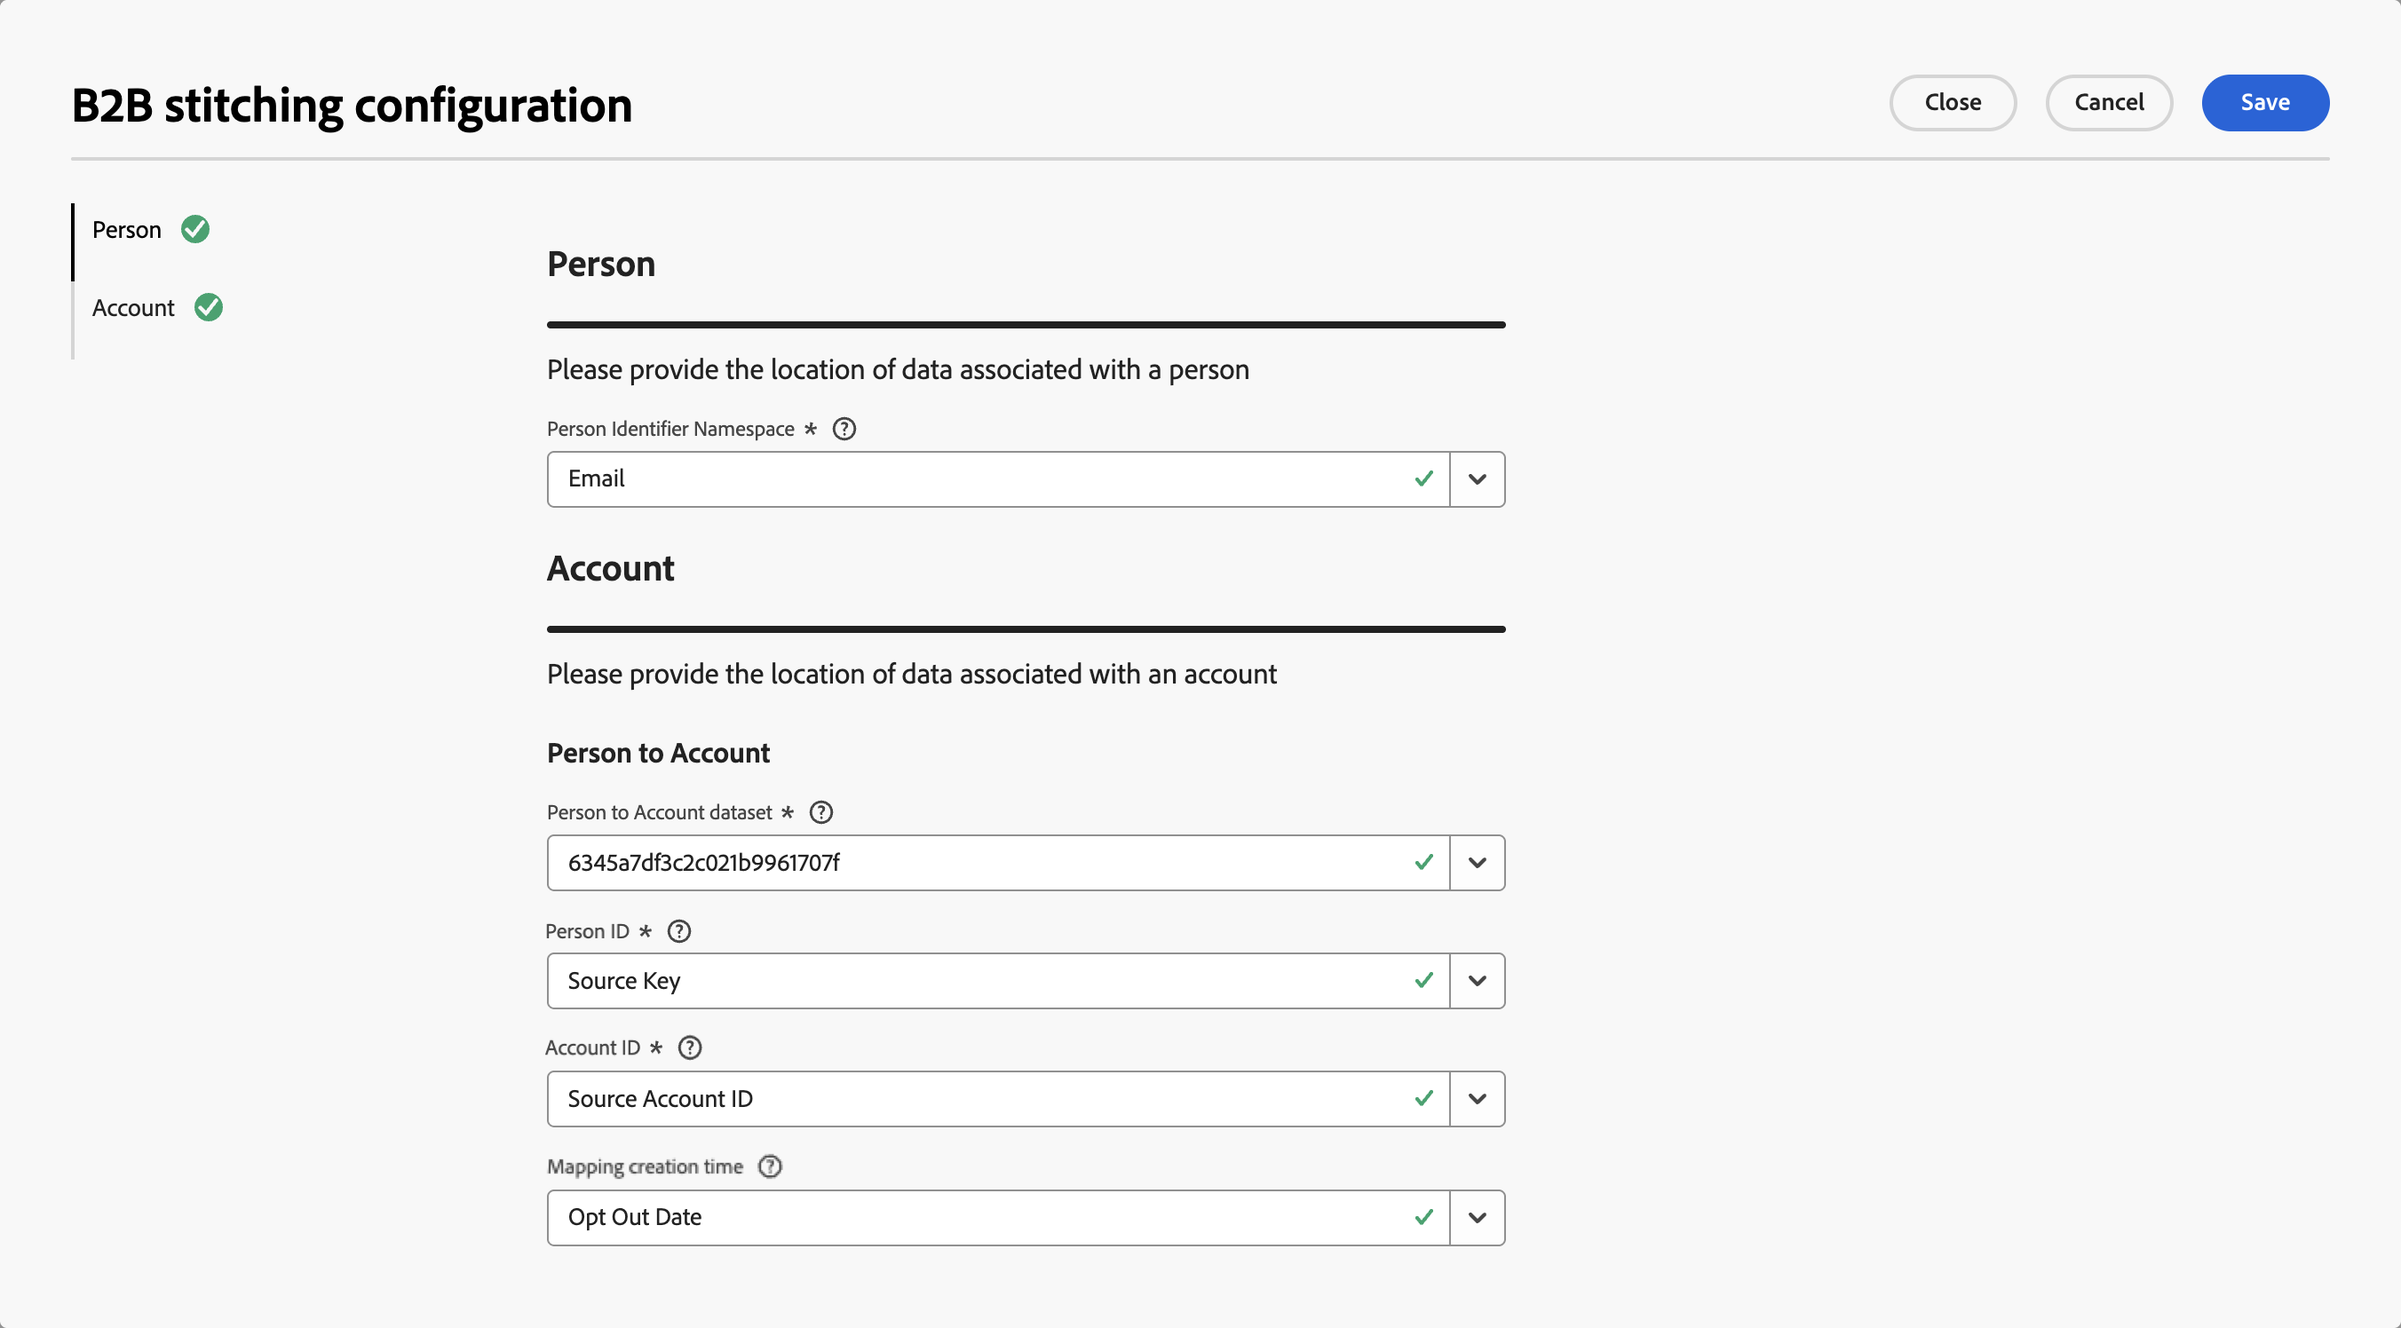
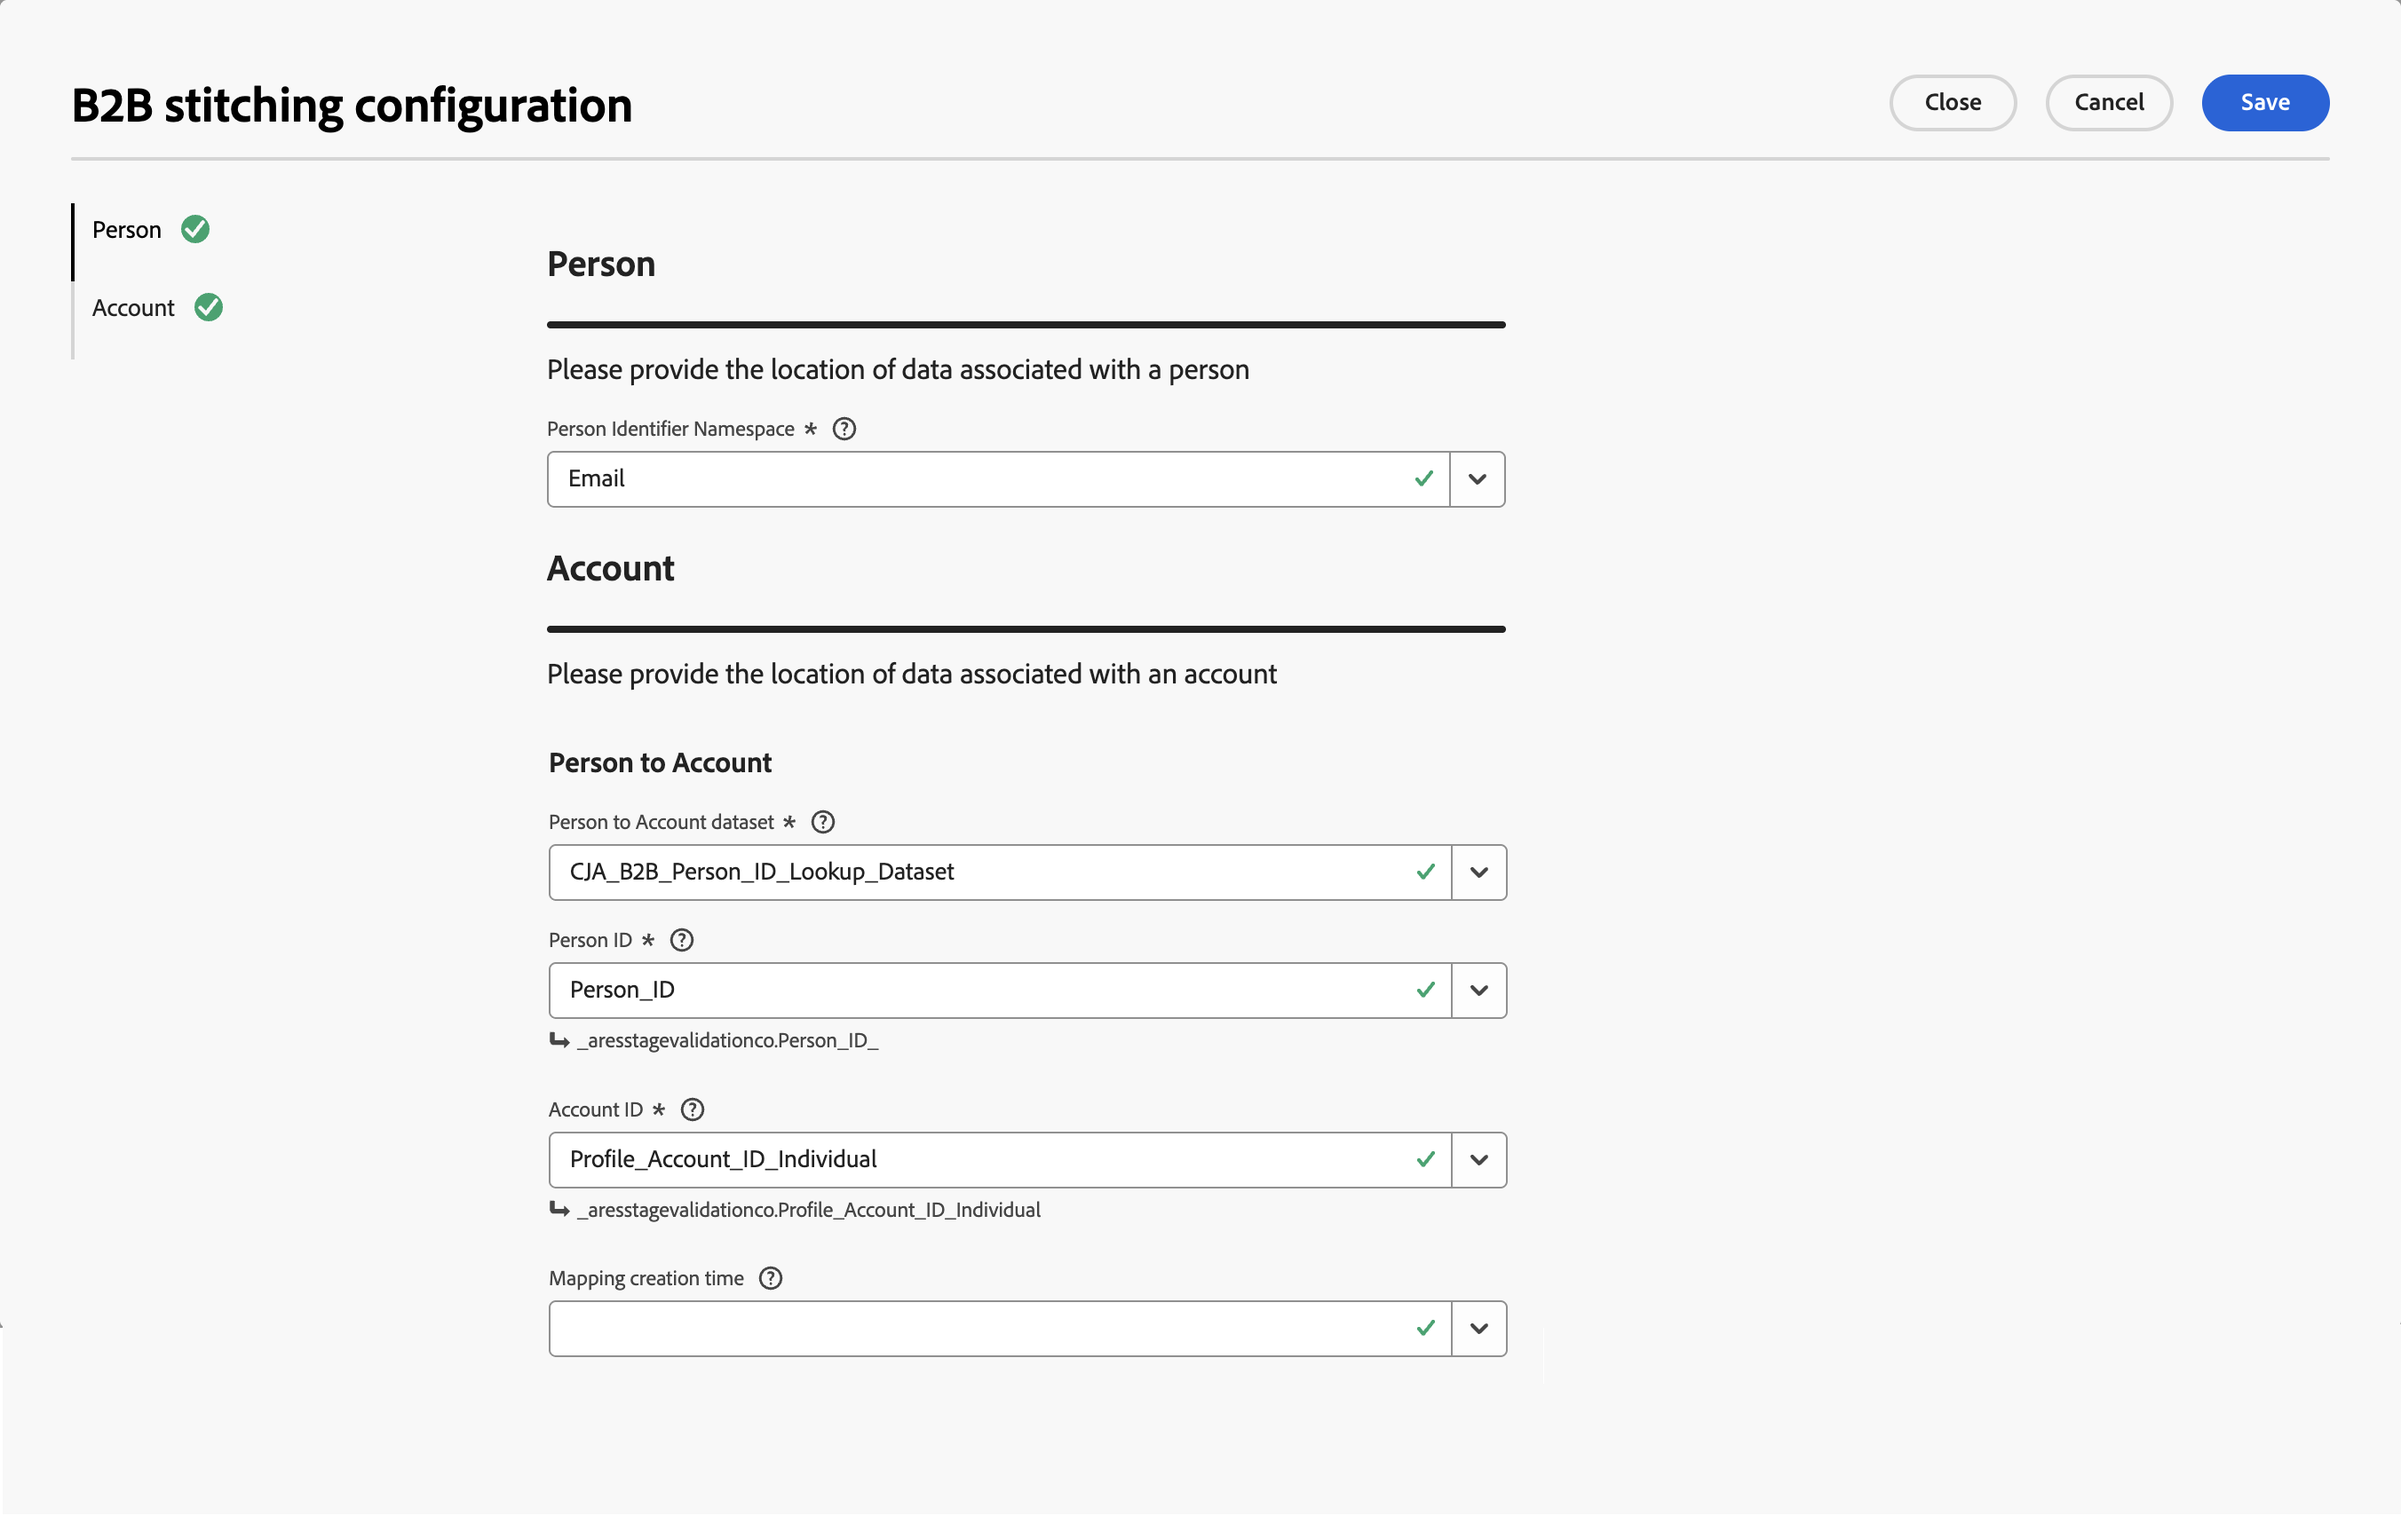
Updates for updated UI.

diff --git a/help/stitching/b2b/b2b-person-to-account-stitching.md b/help/stitching/b2b/b2b-person-to-account-stitching.md
@@ -215,8 +215,8 @@ You first enable and configure B2B stitching at the connection level. When B2B s
       | Field | Required | Description |
       |---|:---:|---|
       | **[!UICONTROL Person to Account dataset]** | ![Required](/help/assets/icons/Required.svg) | Select the lookup (record or non-time series dataset) that maps persons to accounts. |
-      | **[!UICONTROL Person ID]** | ![Required](/help/assets/icons/Required.svg) | Select the field in the dataset that contains person IDs. This field's namespace can either differ from or be the same as the selected person identifier namespace. If they differ, the two namespaces need to be linked in the identity graph.  That field must be marked as an identity and cannot be the same as the **[!UICONTROL Account ID]** field or **[!UICONTROL Mapping creation time]** field. |
-      | **[!UICONTROL Account ID]** | ![Required](/help/assets/icons/Required.svg) | Select the field in the dataset that contains the unique account identifier values. The account ID info will be made available on the rows of any event datasets with Person to Account stitching enabled. That field cannot be the same as the **[!UICONTROL Person ID]** field or **[!UICONTROL Mapping creation time]** field. |
+      | **[!UICONTROL Person ID]** | ![Required](/help/assets/icons/Required.svg) | Select the field in the dataset that contains person IDs. This field's namespace can either differ from or be the same as the selected person identifier namespace. If they differ, the two namespaces need to be linked in the identity graph.  That field must be marked as an identity and cannot be the same as the **[!UICONTROL Account ID]** field or **[!UICONTROL Mapping creation time]** field. The full path of the field is shown below the field. |
+      | **[!UICONTROL Account ID]** | ![Required](/help/assets/icons/Required.svg) | Select the field in the dataset that contains the unique account identifier values. The account ID info will be made available on the rows of any event datasets with Person to Account stitching enabled. That field cannot be the same as the **[!UICONTROL Person ID]** field or **[!UICONTROL Mapping creation time]** field. The full path of the field is shown below the field. |
       | **Mapping creation time** | |Optionally, select the field that represents the date and time when person to account mapping got created. Useful for scenarios when a person switches multiple accounts over time.<br/><br/>**Example** (when **update_date** field is selected):<table><thead><tr><th>update_date</th><th>person</th><th>account</th></tr></thead><tbody><tr><td>20260401</td><td>a@b.com</td><td>Apple</td></tr><tr><td>20260501</td><td>a@b.com</td><td>Adobe</td></tr></tbody></table><ul><li>For all events with a timestamp in the **[!UICONTROL update_date]** field before May 1st, 2026: a@b.com is mapped to Apple.</li><li>For all events with a timestamp in the **[!UICONTROL update_date]** field on or after May 1st, 2026: a@b.com is mapped to Adobe.</li></ul>When no mapping time is specified, the lexicographic first account is used. This same algorithm is also used when two different account names have the exact same **[!UICONTROL update_date]** value and a mapping creation time is specified. |
 
       >[!NOTE]
